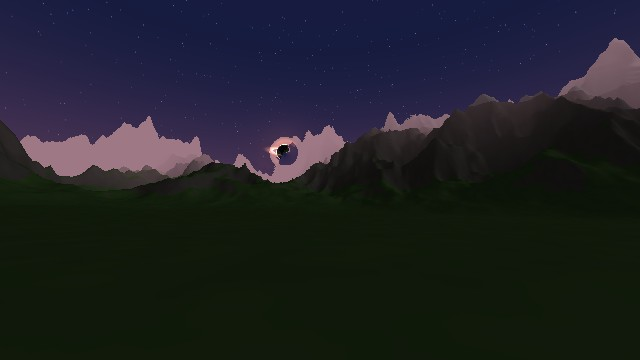
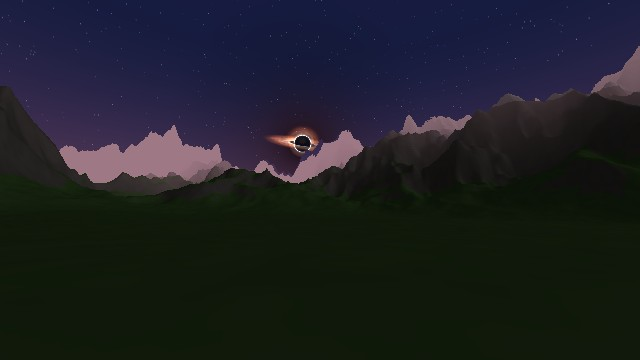
Etapa 2 (0.12.0): ajustes pedidos na aprovação da prévia
- BLACK_HOLE maior e mais dramático: sombra de 1/5 do tamanho, disco largo
  e quase de lado atravessando a sombra, metade de trás dobrada pela lente
  por cima dela (e um fio por baixo), anel de fótons fino e muito brilhante,
  céu em volta levemente engolido. Padrão novo: 40 graus, inclinação 80.
- Lente sem recorte: o desvio some sem quina ((1 - (θ/alcance)²)²), alcance
  maior; céu desviado continua céu (onde cairia num morro, entra o céu do
  jogo naquela direção, nos dois passes); o terreno entorta só um terço.
- PORTAL: antes de abrir, uma fissura que pisca e solta arcos de energia
  (piscar e arcos fortes seguem "ocultar clarões"); o anel só aparece
  quando ela se abre.
- ECLIPSE: a lua só existe onde cobre o sol, como num eclipse real.
- Folha de prévia refeita (docs/ceu-previas/), testes GLSL atualizados.

Claude-Session: https://claude.ai/code/session_01V4Hpw79dXk2Jc2pQ6wLeSx

Changed region(s): [[0.0, 0.2444, 0.5938, 0.55], [0.5938, 0.0917, 1.0, 0.3972]]

diff --git a/src/main/java/dev/calamidade_awakening/api/v1/Sky.java b/src/main/java/dev/calamidade_awakening/api/v1/Sky.java
@@ -73,8 +73,10 @@ public final class Sky {
      */
     public enum Type {
         /**
-         * Black disk (the shadow), a thin photon ring and a tilted accretion disk with its bent far side, plus a
-         * gravitational lens that bends the sky and the terrain around it. Size: outer diameter of the disk. Primary:
+         * Black disk (the shadow, a fifth of the size), a thin and very bright photon ring, a wide tilted accretion disk
+         * crossing the shadow from side to side with its far half bent over the top of the shadow by the lens, the sky
+         * around slightly darkened, and a gravitational lens that bends the sky and the terrain around it. Size: outer
+         * diameter of the disk. Primary:
          * hot inner color; secondary: outer color of the disk. Progress: how much of the disk is lit (0 = a bare
          * shadow, 1 = a full disk). Tilt: disk inclination (90 = edge-on). Lens: bending strength.
          */
@@ -323,7 +325,7 @@ public final class Sky {
      */
     public static Builder builder(Type type) { return new Builder(type); }
 
-    /** {@code builder(Type.BLACK_HOLE)}: 24 degrees, tilt 76, lens 0.6, spin 1.2 degrees per tick. */
+    /** {@code builder(Type.BLACK_HOLE)}: 40 degrees, tilt 80 (a wide disk seen almost edge-on), lens 0.6, spin 1.2 degrees per tick. */
     public static Builder blackHole() { return builder(Type.BLACK_HOLE); }
     /** {@code builder(Type.PORTAL)}: 30 degrees, open, galaxy spin 0.5 degrees per tick. */
     public static Builder portal() { return builder(Type.PORTAL); }
@@ -431,7 +433,7 @@ public final class Sky {
         private Builder(Type type) {
             this.type = Objects.requireNonNull(type, "type");
             switch (type) {
-                case BLACK_HOLE -> { size = 24; tilt = 76; lens = .6f; spin = 1.2f; intensity = 1.4f;
+                case BLACK_HOLE -> { size = 40; tilt = 80; lens = .6f; spin = 1.2f; intensity = 1.4f;
                     primary = 0xffffe6c0; secondary = 0xffff6a20; }
                 case PORTAL -> { size = 30; spin = .5f; intensity = 1.2f; primary = 0xffb8ecff; secondary = 0xffb040ff; }
                 case ECLIPSE -> { anchor = Anchor.SUN; ay = 0; size = 13; darken = .75f; primary = 0xffeaf2ff;

diff --git a/src/test/java/dev/calamidade_awakening/SkyCheck.java b/src/test/java/dev/calamidade_awakening/SkyCheck.java
@@ -69,7 +69,7 @@ final class SkyCheck {
 
     private static void sizesAndDefaults() {
         var hole = Sky.blackHole().build();
-        require(hole.type() == Sky.Type.BLACK_HOLE && hole.size() == 24 && hole.tilt() == 76 && hole.lens() == .6f
+        require(hole.type() == Sky.Type.BLACK_HOLE && hole.size() == 40 && hole.tilt() == 80 && hole.lens() == .6f
             && hole.anchor() == Sky.Anchor.DIRECTION && hole.anchorY() == 35 && !hole.hidesVanilla(), "black hole defaults");
         var eclipse = Sky.eclipse().build();
         require(eclipse.anchor() == Sky.Anchor.SUN && eclipse.hidesVanilla() && eclipse.darken() == .75f, "eclipse on the sun");
@@ -285,6 +285,7 @@ final class SkyCheck {
         require(SkyMath.lenses(2) == 1 && SkyMath.lenses(4) == 2 && SkyMath.lenses(8) == 2, "lenses");
         double r = Math.toRadians(15);
         require(Math.abs(SkyMath.einstein(r, 0) - r * SkyMath.SHADOW * 1.05) < 1e-12, "lens 0: ring just outside the shadow");
+        require(SkyMath.SHADOW == .2, "shadow is a fifth of the size (sky.fsh BH_SHADOW)");
         require(SkyMath.einstein(r, 1) > SkyMath.einstein(r, .5) && SkyMath.lensExtent(r, 1) > SkyMath.lensExtent(r, .5),
             "stronger lens: larger ring and reach");
         require(SkyMath.lensExtent(r, 0) > SkyMath.einstein(r, 1), "the lens reaches beyond its Einstein ring");

diff --git a/src/main/java/dev/calamidade_awakening/api/SkyMath.java b/src/main/java/dev/calamidade_awakening/api/SkyMath.java
@@ -39,13 +39,13 @@ public final class SkyMath {
     public static int lenses(int layers) { return layers <= 2 ? 1 : 2; }
 
     /** Shadow radius of a black hole over its angular radius (sky.fsh). */
-    public static final double SHADOW = .34;
+    public static final double SHADOW = .2;
 
     /** Einstein radius (radians) of a black hole of angular radius {@code radius} (radians) and lens strength 0..1. */
-    public static double einstein(double radius, double strength) { return radius * SHADOW * (1.05 + 1.6 * strength); }
+    public static double einstein(double radius, double strength) { return radius * SHADOW * (1.05 + 2.2 * strength); }
 
-    /** Extent of the lens (radians) beyond which nothing bends; the bending fades out from 60% of it. */
-    public static double lensExtent(double radius, double strength) { return radius * (1.6 + 2.2 * strength); }
+    /** Extent of the lens (radians) beyond which nothing bends; the bending fades out smoothly toward it. */
+    public static double lensExtent(double radius, double strength) { return radius * (2.2 + 2.0 * strength); }
 
     /**
      * One layer competing for a frame: {@code hero} for layers of HERO effects, {@code weight} its resolved weight and

diff --git a/src/main/java/dev/calamidade_awakening/client/SkyFrame.java b/src/main/java/dev/calamidade_awakening/client/SkyFrame.java
@@ -145,7 +145,7 @@ final class SkyFrame {
             double radius = Math.toRadians(s.radius());
             var dir = r.direction();
             switch (s.type()) {
-                case BLACK_HOLE -> n = mask(n, dir, radius * .34 * 1.02);
+                case BLACK_HOLE -> n = mask(n, dir, radius * SkyMath.SHADOW * 1.02);
                 case PORTAL -> n = mask(n, dir, radius * s.progress());
                 case CELESTIAL_BODY -> n = mask(n, dir, radius);
                 case ECLIPSE -> {

diff --git a/docs/ceu-previas/README.md b/docs/ceu-previas/README.md
@@ -1,4 +1,4 @@
-# Sky API 0.12.0 — prévia visual (a aprovar)
+# Sky API 0.12.0 — prévia visual (aprovada com ajustes, já aplicados)
 
 Renderizadas fora do jogo com `node scripts/previa_passes.cjs ceu` (folha em `build/previa/ceu-0120.png`). Rodam os shaders **reais** do motor (`sky.fsh`, `atmosphere.fsh`, `calamidade_fx.glsl`, `calamidade_sky.glsl`) com o `common.glsl` da RimuLib, no WebGL2 do Chromium headless (SwiftShader), com os mesmos dados que o `SkyFrame` e o `AtmosphereFrame` mandam no jogo. A cena é sintética: montanhas num mapa de altura, céu e névoa no modelo do jogo (`caVanillaSky`) e o **sol do jogo somado como o `LevelRenderer` soma** (mesmo quadrado, mesma textura, lida do JAR de recursos que o build baixa e nunca versionada). Não substitui o teste numa GPU de verdade: vale a forma, a ordem dos passes e as cores; o brilho final depende do bloom e da tela.
 
@@ -6,10 +6,12 @@ Renderizadas fora do jogo com `node scripts/previa_passes.cjs ceu` (folha em `bu
 
 | Linha | Formação | Auge | Dissipação |
 |---|---|---|---|
-| **BLACK_HOLE** (azimute -25, elevação 13, crepúsculo com estrelas da atmosfera) | 10 graus, disco 30% aceso: a sombra surge sobre as montanhas | 30 graus, disco cheio girando, anel de fótons, lado que se aproxima mais claro; a lente entorta as cristas das montanhas em arco e as estrelas em volta (anel de Einstein) | 7 graus colapsando, disco a 55% |
-| **PORTAL** (azimute 15, elevação 28) | abertura 14%: a semente acende (clarão de nascimento, some com "ocultar clarões") | aberto: anel com arcos de energia, nebulosa, estrelas densas e uma galáxia espiral girando por dentro | fechando (42%), a galáxia ainda girando |
-| **ECLIPSE** (no sol do jogo, de manhã, a leste, 13 graus) | 62%: o sol quadrado do jogo foi apagado e redesenhado redondo; o disco morde o sol e, fora dele, é só uma sombra leve | total: coroa com serpentinas, céu e mundo escuros (escurecimento ligado às regras da atmosfera), estrelas | 95,5%: anel de diamante no último ponto de sol (clarão, some com "ocultar clarões") |
+| **BLACK_HOLE** (azimute -25, elevação 16, crepúsculo com estrelas da atmosfera) | 18 graus, disco 30% aceso: a sombra surge sobre as montanhas, o céu em volta escurece | 64 graus: disco largo e quase de lado atravessando a sombra, a metade de trás dobrada pela lente por cima dela, anel de fótons fino e muito brilhante, o lado que se aproxima mais claro, o céu em volta engolido; a lente entorta as estrelas e ondula o relevo distante sem recortá-lo | 12 graus colapsando, disco a 55% |
+| **PORTAL** (azimute 15, elevação 28) | abertura 5%: uma fissura que pisca e solta arcos de energia (o piscar e os arcos fortes somem com "ocultar clarões") | aberto: anel com arcos de energia, nebulosa, estrelas densas e uma galáxia espiral girando por dentro | fechando (42%), a galáxia ainda girando |
+| **ECLIPSE** (no sol do jogo, de manhã, a leste, 13 graus) | 62%: o sol quadrado do jogo foi apagado e redesenhado redondo; a lua só existe onde cobre o sol (a mordida) | total: coroa com serpentinas, céu e mundo escuros (escurecimento ligado às regras da atmosfera), estrelas | 95,5%: anel de diamante no último ponto de sol (clarão, some com "ocultar clarões") |
 
 Arquivos: [buraco_negro-formacao](buraco_negro-formacao.jpg), [buraco_negro-auge](buraco_negro-auge.jpg), [buraco_negro-dissipacao](buraco_negro-dissipacao.jpg), [portal-formacao](portal-formacao.jpg), [portal-auge](portal-auge.jpg), [portal-dissipacao](portal-dissipacao.jpg), [eclipse-formacao](eclipse-formacao.jpg), [eclipse-auge](eclipse-auge.jpg), [eclipse-dissipacao](eclipse-dissipacao.jpg).
 
 O que fica de fora da prévia: bloom e clarões da RimuLib (vêm depois dos passes), a névoa por fragmento do jogo, nuvens e as estrelas do próprio jogo (no jogo, à noite, elas também passam pela lente).
+
+**Ajustes pedidos na aprovação (aplicados):** buraco negro bem maior e mais dramático (sombra de 1/5 do tamanho, disco largo e inclinado no estilo do cinema, arco dobrado por cima, anel de fótons fino e muito brilhante, céu em volta engolido); borda da lente sem recorte (o desvio some sem quina, o céu desviado continua céu e o terreno entorta só um terço); semente do portal como fissura que pisca e solta arcos; lua do eclipse só onde cobre o sol.

diff --git a/docs/ai/API-REFERENCIA.md b/docs/ai/API-REFERENCIA.md
@@ -955,7 +955,7 @@ Immutable sky layer of one effect (0.12.0): a fantastic object painted on the sk
 | `static float ECLIPSE_START_DISTANCE` | Distance between the centers of the eclipse disk and its sun at progress 0, in covering-disk radii. |
 | `static float eclipseCoverage(float progress)` | Fraction of the sun hidden by an `Type.ECLIPSE` at `progress` (0..1, clamped): the overlap area of the covering disk (radius 1) and the sun (radius `ECLIPSE_SUN_RATIO`) whose centers are `(1 - progress) × ``ECLIPSE_START_DISTANCE` radii apart, over the sun's area. 0 at progress 0, 1 at totality (from progress ≈ 0.986 on). |
 | `static Sky.Builder builder(Sky.Type type)` | New builder of a layer of `type`, with the defaults of that type (size, colors, progress, tilt, lens, darken and anchor: an `Type.ECLIPSE` starts on the sun, an `Type.AURORA` at azimuth 180 and elevation 12, the others at azimuth 0 and elevation 35). |
-| `static Sky.Builder blackHole()` | `builder(Type.BLACK_HOLE)`: 24 degrees, tilt 76, lens 0.6, spin 1.2 degrees per tick. |
+| `static Sky.Builder blackHole()` | `builder(Type.BLACK_HOLE)`: 40 degrees, tilt 80 (a wide disk seen almost edge-on), lens 0.6, spin 1.2 degrees per tick. |
 | `static Sky.Builder portal()` | `builder(Type.PORTAL)`: 30 degrees, open, galaxy spin 0.5 degrees per tick. |
 | `static Sky.Builder eclipse()` | `builder(Type.ECLIPSE)`: on the sun, 13 degrees, total, darken 0.75. |
 | `static Sky.Builder rift()` | `builder(Type.RIFT)`: 50 degrees long, rotation 20, open. |
@@ -1105,7 +1105,7 @@ What the layer paints.
 
 | Membro | Descrição |
 |---|---|
-| `BLACK_HOLE` | Black disk (the shadow), a thin photon ring and a tilted accretion disk with its bent far side, plus a gravitational lens that bends the sky and the terrain around it. |
+| `BLACK_HOLE` | Black disk (the shadow, a fifth of the size), a thin and very bright photon ring, a wide tilted accretion disk crossing the shadow from side to side with its far half bent over the top of the shadow by the lens, the sky around slightly darkened, and a gravitational lens that bends the sky and the terrain around it. |
 | `PORTAL` | Energy ring that opens and reveals another sky inside: nebula, dense stars and a spinning spiral galaxy. |
 | `ECLIPSE` | Disk that covers a sun (the vanilla one with `Builder.onSun()`, which is hidden and redrawn) with a corona and streamers at totality, or a reddened moon with `Builder.onMoon()`. |
 | `RIFT` | Jagged crack across the sky with an inner glow and a darker void, small branches and flicker. |
